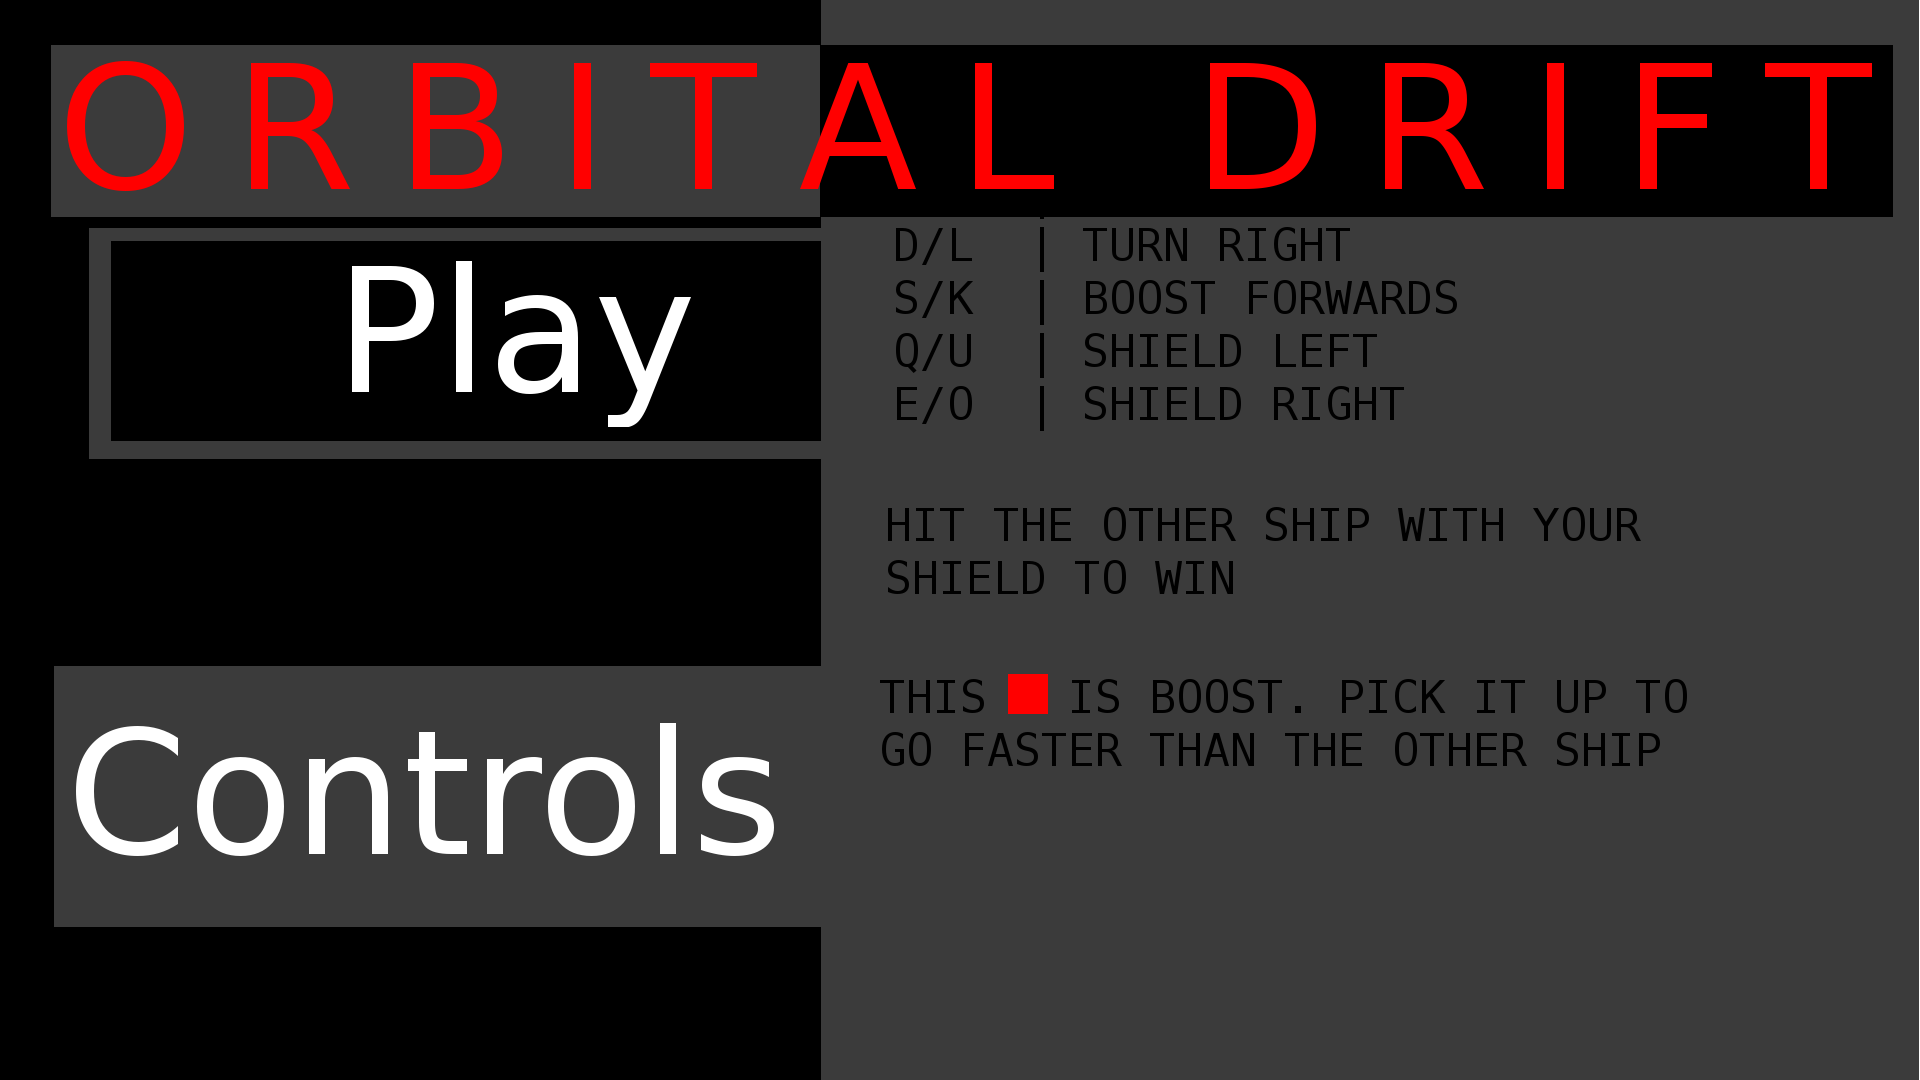
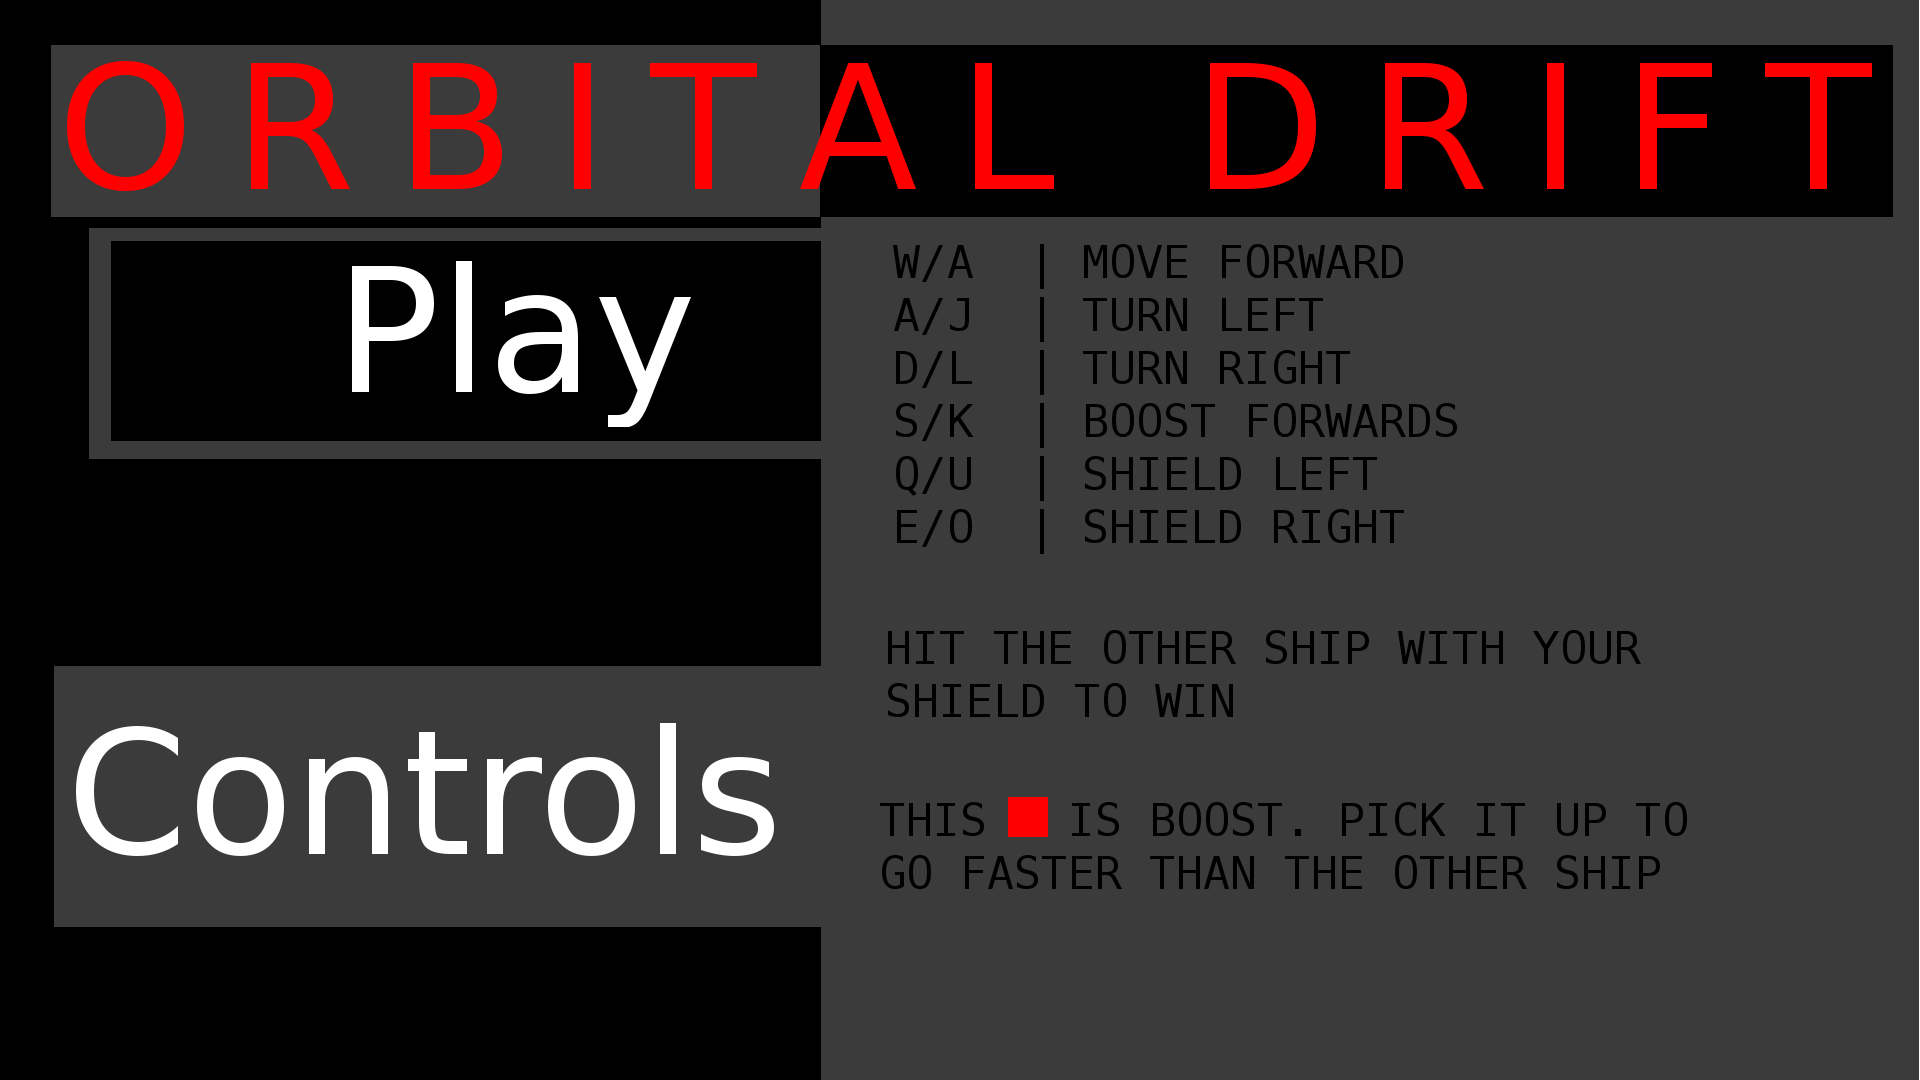
fixed controls

Changed region(s): [[0.4688, 0.2139, 0.8438, 0.55], [0.4688, 0.5806, 0.875, 0.7028], [0.4688, 0.7333, 0.875, 0.825]]

diff --git a/src/ShipCenter.java b/src/ShipCenter.java
@@ -164,8 +164,8 @@ public class ShipCenter extends GameFrame implements KeyListener {
 	    gScr.setFont(font);
 
 	    // report frame count & average FPS and UPS at top left
-		gScr.drawString("x" + MouseInfo.getPointerInfo().getLocation().getX() + "; y " + MouseInfo.getPointerInfo().getLocation().getY() + " ms" + df.format(averageFPS) + ", " +
-	                                df.format(averageUPS), 20, 25);  // was (10,55)
+		//gScr.drawString("x" + MouseInfo.getPointerInfo().getLocation().getX() + "; y " + MouseInfo.getPointerInfo().getLocation().getY() + " ms" + df.format(averageFPS) + ", " +
+	    //                            df.format(averageUPS), 20, 25);  // was (10,55)
 		
 
 		// report time used and boxes used at bottom left
